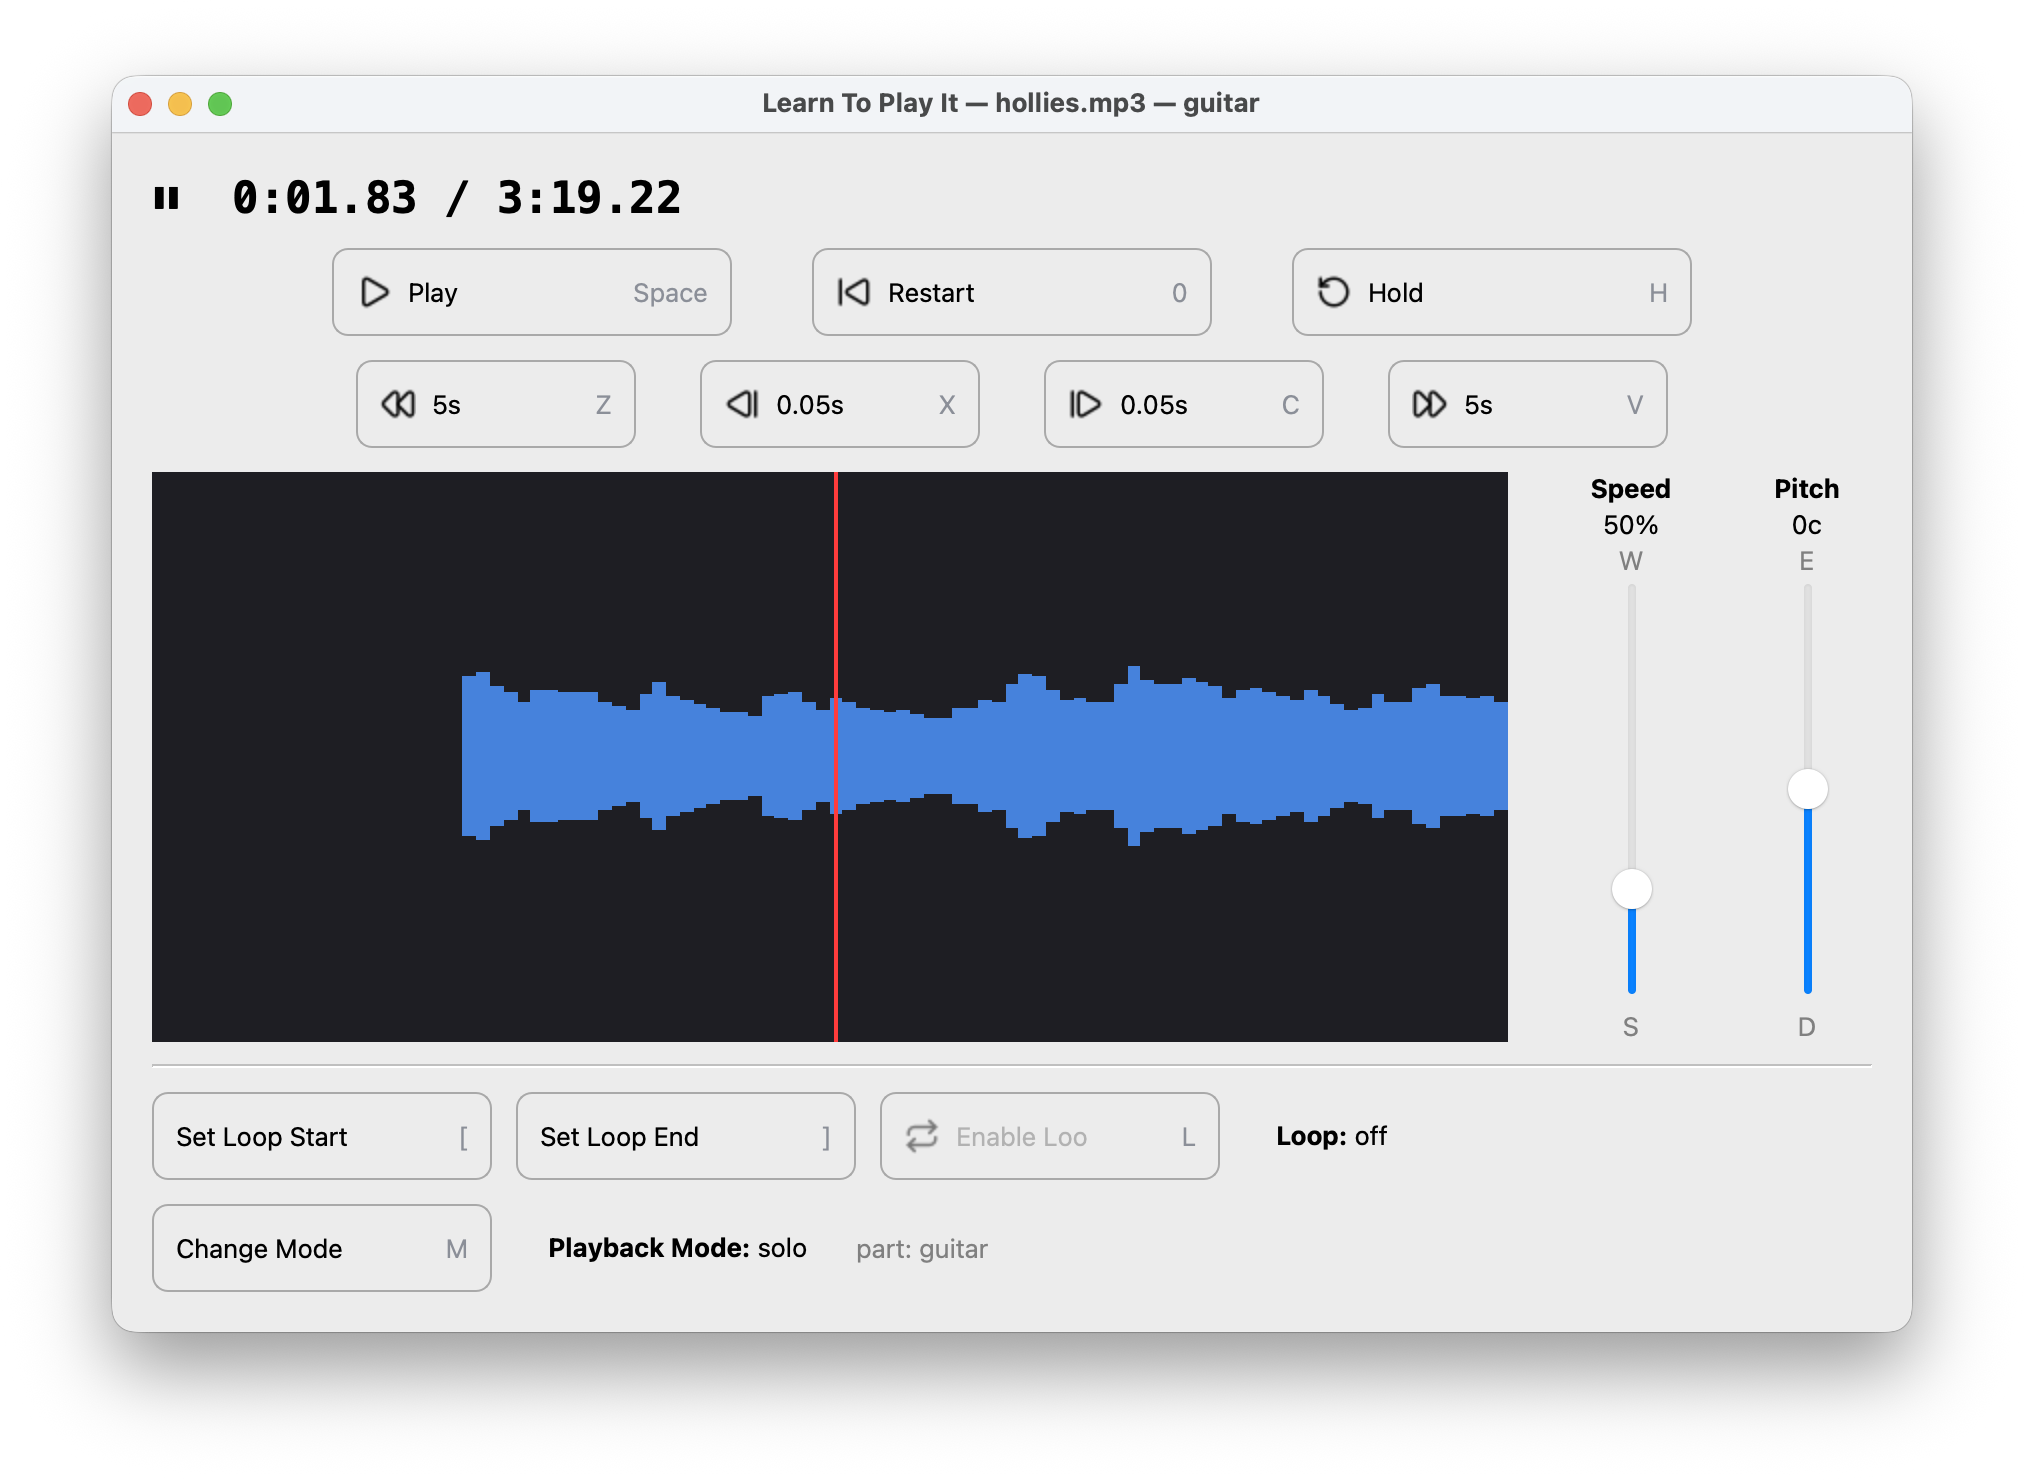
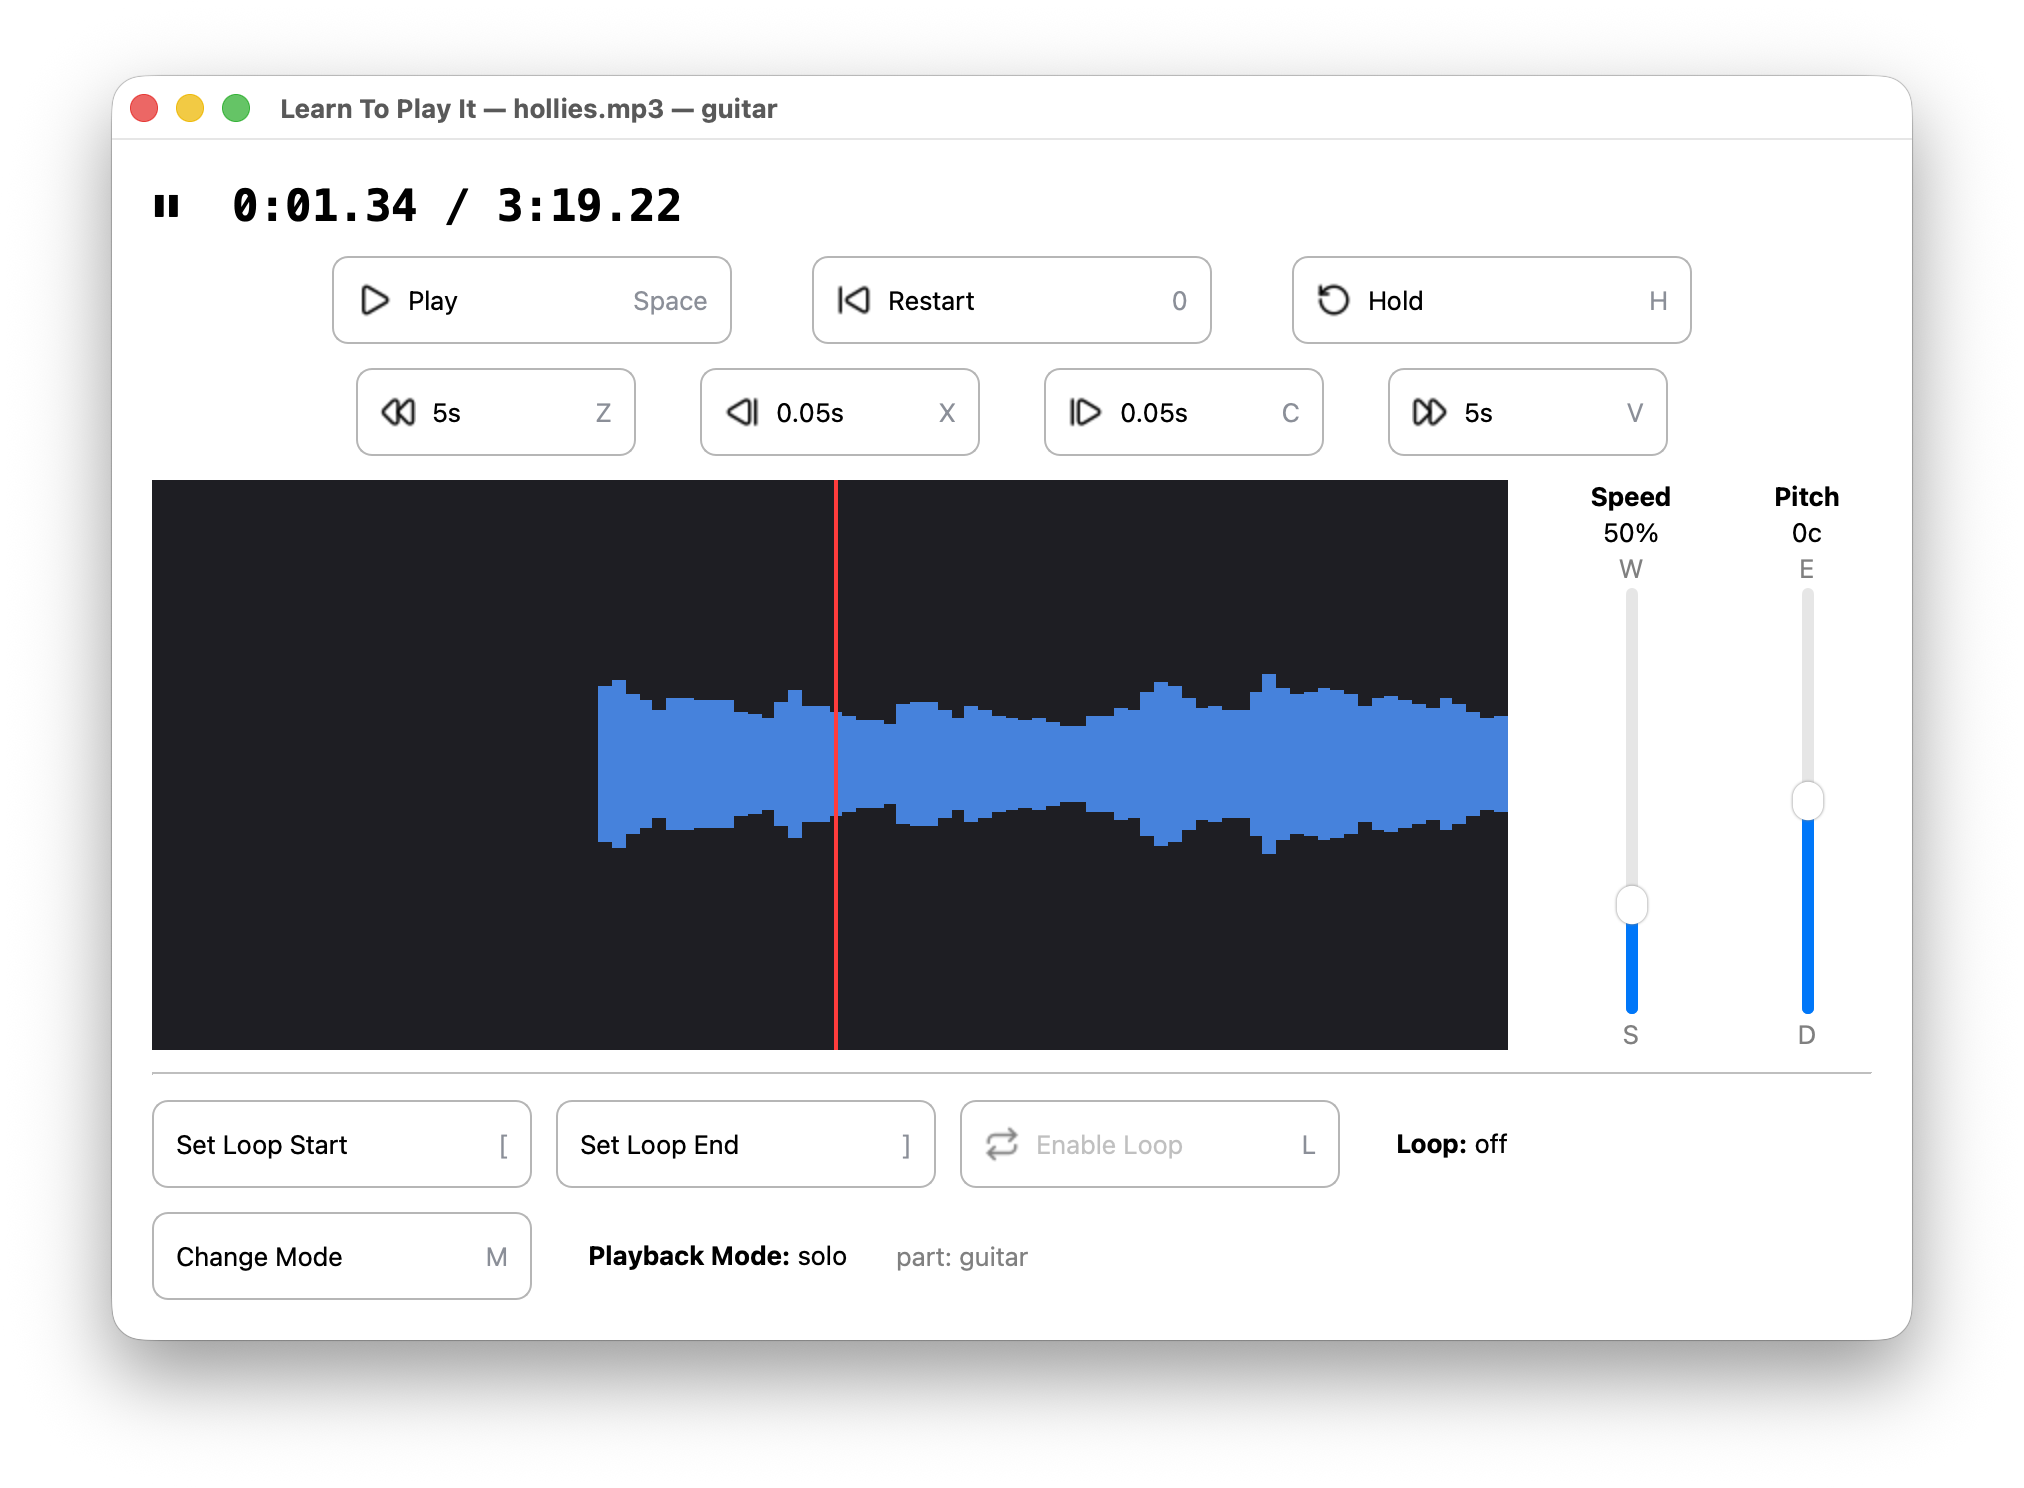
slight fix to button width

diff --git a/learntoplayit/gui.py b/learntoplayit/gui.py
@@ -34,7 +34,7 @@ WINDOW_H = 600
 TRANSPORT_W = 200
 BUTTON_H = 44
 SEEK_W = 140
-LOOP_W = 170
+LOOP_W = 190
 SLIDER_W = 64
 
 ICON_SIZE = 18
